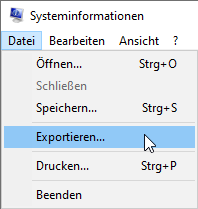
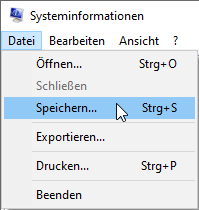
xx

diff --git a/docs/pro-stick-d10/msinfo32.md b/docs/pro-stick-d10/msinfo32.md
@@ -1,0 +1,29 @@
+# Einen Systeminformationsbericht erstellen
+
+MSINFO32 bietet eine umfassende Übersicht über Ihre Hardware, Systemkomponenten und Softwareumgebung, die unserem Support-Team Informationen zur Behebung technischer Probleme zur Verfügung stellt. Befolgen Sie die folgenden Schritte, um einen Systeminformationsbericht zu erstellen und ihn uns zukommen zu lassen:
+
+!!! tip "Hinweis"
+    
+	Eine Supportleistung bieten wir nur Kunden an, die bei uns bestellt haben. Bitte wenden Sie sich an Ihren Händler.
+
+## Wie erstelle ich einen Systeminformationsbericht?
+
+* Drücken Sie die Tastenkombination `[Windows]` + `[R]` und im Popup-Fenster geben Sie den Befehl `msinfo32` ein. Drücken Sie anschließend die Eingabetaste.
+
+* Der Systeminformationsbericht wird daraufhin geladen. Klicken Sie einmal auf den Punkt `Systemübersicht` oben links. 
+
+![](/assets/img/msinfo32.png)
+
+* Wählen Sie `Datei` -> `Speichern`:
+
+![](/assets/img/msinfo32.saveas.png)
+
+* Wählen Sie einen Ordner aus und klicken Sie auf `Speichern`:
+
+![](/assets/img/msinfo32.save.png)
+
+* Beenden Sie das Systeminformationenprogram.
+
+* Lassen Sie uns bitte die Logdatei über unser [Ticketsystem](https://support.stueber.de) zukommen. 
+
+![](/assets/img/logfile.ticket.png)
